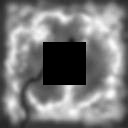
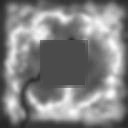
Improved terrain

Changed region(s): [[0.3125, 0.3125, 0.6875, 0.6875]]

diff --git a/code/MyScene.js b/code/MyScene.js
@@ -132,11 +132,11 @@ class MyScene extends CGFscene {
         this.setDefaultAppearance();
 
         // ---- BEGIN Primitive drawing section
-        /*this.pushMatrix();
+        this.pushMatrix();
         this.rotate(-0.5*Math.PI, 1, 0, 0);
-        this.scale(60, 60, 10);
+        this.scale(60, 60, 45);
         this.terrain.display();
-        this.popMatrix();*/
+        this.popMatrix();
         
         
         //this.house.display();
@@ -147,7 +147,6 @@ class MyScene extends CGFscene {
         this.scale(this.scaleFactor, this.scaleFactor, this.scaleFactor);
         this.bird.display(this);
         this.popMatrix();*/
-
         this.lightning.display();
 
 
